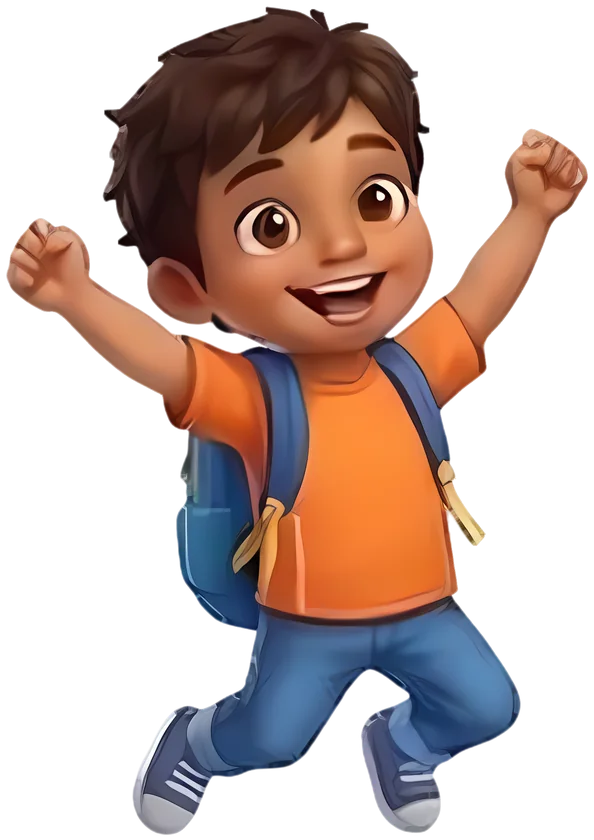
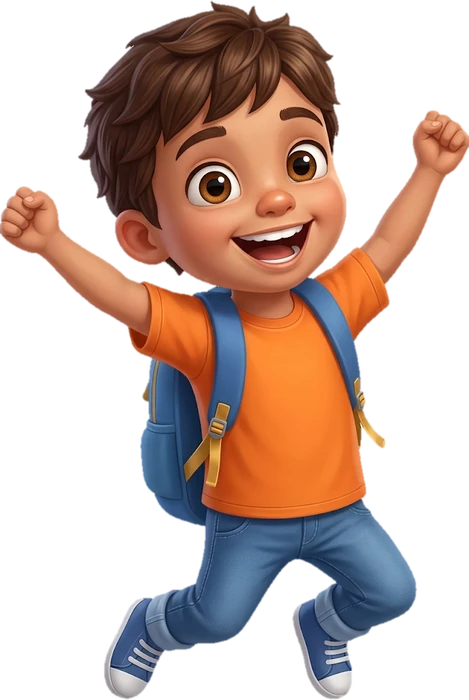
Use new MyPal artwork everywhere

diff --git a/src/games/sketch/SketchGame.tsx b/src/games/sketch/SketchGame.tsx
@@ -1,3 +1,4 @@
+import { Mascot } from "../../components/Mascot";
 import { useEffect, useRef, useState } from "react";
 import type { SketchGameProps } from "./index";
 import { SketchCanvas } from "./SketchCanvas";
@@ -170,6 +171,7 @@ export function SketchGame({ onComplete, onBack, speak, header }: SketchGameProp
       </header> : header}
       {stage === "intro" && <div className="sk-intro">
         <div className="sk-intro-copy">
+          <Mascot pose="point" size={64} />
           <p className="sk-eyebrow">LITTLE ARTISTS · BIG MYSTERIES</p>
           <span className="sk-case-tag">CASE {String(cases.findIndex((entry) => entry.id === caseFile.id) + 1).padStart(2, "0")} <span aria-hidden="true">/</span> ART DIVISION</span>
           <h1 className="sk-title" ref={headingRef} tabIndex={-1}><span className="sk-title-prefix">Case file:</span> {caseFile.title}</h1>
@@ -204,6 +206,7 @@ export function SketchGame({ onComplete, onBack, speak, header }: SketchGameProp
         <div className="sk-workspace">
           <aside className="sk-clue-panel" aria-label="Witness clues">
             <div className="sk-clue-card">
+              <Mascot pose="point" size={64} />
               <div className="sk-clue-heading"><span className="sk-eyebrow">WITNESS SAYS…</span><span className="sk-clue-count">{clueIndex + 1} / {caseFile.clues.length}</span></div>
               <div className="sk-progress" aria-label={`Clue ${clueIndex + 1} of ${caseFile.clues.length}`}>{caseFile.clues.map((entry, i) => <span key={entry.id} className={`sk-progress-dot${i <= clueIndex ? " sk-progress-read" : ""}`} />)}</div>
               <p className="sk-clue-text" aria-live="polite" aria-atomic="true">“{clue.text}”</p>
@@ -231,6 +234,7 @@ export function SketchGame({ onComplete, onBack, speak, header }: SketchGameProp
         <div className="sk-compare-track"><span /></div>
       </div>}
       {stage === "reveal" && snapshot && <div className="sk-reveal">
+        <Mascot pose="jump" size={72} />
         <div className="sk-result-heading"><p className="sk-eyebrow">MYSTERY REVEALED</p><h1 className="sk-title sk-result-title" ref={headingRef} tabIndex={-1}>Meet {caseFile.id === "gecko_hero" ? "Gecko Hero" : caseFile.title}!</h1><p className="sk-lead">Two pictures. One brilliant imagination.</p></div>
         <div className="sk-pictures">
           <figure className="sk-picture"><figcaption><span>Your masterpiece</span><span className="sk-picture-tag">THE ARTIST: YOU</span></figcaption><img className="sk-result-image" src={snapshot.previewUrl} alt="Your drawing of the mystery hero" /></figure>

diff --git a/src/screens/VideoCatalog.tsx b/src/screens/VideoCatalog.tsx
@@ -6,7 +6,7 @@ import { PrototypeHeader } from "../components/PrototypeHeader";
 import { ActivityNavigation } from "../components/ActivityHeader";
 import { SessionActivity } from "../components/SessionControls";
 import { videosFor } from "../game/videos";
-import { Mascot, MascotHead } from "../components/Mascot";
+import { Mascot } from "../components/Mascot";
 import { ToddlerCinema } from "./ToddlerCinema";
 import { YouTubeVideo } from "../components/YouTubeVideo";
 
@@ -71,7 +71,7 @@ function StandardVideoCatalog({ ageBand, name, onParents, onHome, onOpen, onPlay
     </button>
     <button type="button" disabled={finishing} onClick={() => onPlay(selected?.id)}
       className="px-6 py-3 rounded-2xl btn-game btn-mint text-[#062C1E] font-display font-bold text-base sm:text-lg flex items-center gap-2 cursor-pointer">
-      <MascotHead size={26} className="bg-[#FFD13B]" /> Play with {APP_NAME} Now!
+      <Mascot pose="point" size={48} /> Play with {APP_NAME} Now!
     </button>
   </div>;
 
@@ -109,11 +109,11 @@ function StandardVideoCatalog({ ageBand, name, onParents, onHome, onOpen, onPlay
                 setWatching(true);
                 onOpen(selected.id);
               }}>
-              <Mascot pose="tablet" className="video-mascot" eager />
+              <Mascot pose="tablet" className="video-mascot" />
               <span className="block font-display text-2xl sm:text-3xl font-bold text-white">{selected.title}</span>
               <span className="block text-xs sm:text-sm font-bold text-indigo-200">▶ Watch video · Plays on YouTube</span>
             </button> : <>
-              <Mascot pose="tablet" className="video-mascot" eager />
+              <Mascot pose="tablet" className="video-mascot" />
               <h1 className="font-display text-2xl sm:text-3xl font-bold text-white">More videos coming soon</h1>
               <p className="text-xs sm:text-sm font-bold text-indigo-200">Play with {APP_NAME} while we get the next episode ready.</p>
             </>}

diff --git a/src/components/Mascot.tsx b/src/components/Mascot.tsx
@@ -12,7 +12,7 @@ export type MascotAction = "clap" | "jump" | "wave" | "sneak" | "drink" | "none"
 
 // Intrinsic sizes of public/mascot/mypal-*.webp, so the layout never jumps while loading.
 const art: Record<MascotPose, [number, number]> = {
-  wave: [502, 840], jump: [594, 840], tablet: [401, 840], point: [473, 840],
+  wave: [408, 700], jump: [469, 700], tablet: [323, 700], point: [390, 700],
 };
 
 export function poseFor(mood: MascotMood, action: MascotAction = "none"): MascotPose {
@@ -27,14 +27,9 @@ export function Mascot({ pose, size, eager = false, speaking = false, className 
   pose: MascotPose; size?: number; eager?: boolean; speaking?: boolean; className?: string;
 }) {
   const [width, height] = art[pose];
-  return <img className={`mypal-mascot ${className}`.trim()} src={`/mascot/mypal-${pose}.webp`} alt=""
+  return <img className={`mypal-mascot ${className}`.trim()} src={`/mascot/mypal-${pose}.webp`} alt="MyPal"
+    srcSet={`/mascot/mypal-${pose}.webp 1x, /mascot/mypal-${pose}@2x.webp 2x`}
     width={width} height={height} loading={eager ? "eager" : "lazy"} decoding="async" draggable={false}
     data-pose={pose} data-speaking={speaking || undefined} data-sized={size ? true : undefined}
-    style={size ? { height: size, width: Math.round(size * width / height) } : undefined} />;
-}
-
-/** The head from the wave pose: header logo and small icons. */
-export function MascotHead({ size = 36, className = "" }: { size?: number; className?: string }) {
-  return <img className={`mypal-head ${className}`.trim()} src="/mascot/mypal-head.webp" alt=""
-    width={size} height={size} decoding="async" draggable={false} />;
+    style={size ? { height: Math.min(size, 280), width: Math.round(Math.min(size, 280) * width / height) } : undefined} />;
 }

diff --git a/src/screens/Ask.tsx b/src/screens/Ask.tsx
@@ -117,7 +117,7 @@ export function Ask({ topics = [], onBack, onAnswer, onQuiz }: {
         <section className="panel learn-card">
           {asked && <p className="field-label ask-question">You asked: “{asked}”</p>}
           <div className="ask-host">
-            <Mascot pose="tablet" className="ask-mascot" eager />
+            <Mascot pose="point" size={72} className="ask-mascot" />
             <SpeechBubble className="ask-answer" live>{result.answer}</SpeechBubble>
           </div>
           {result.source !== "refusal" && <span className="field-label">+5 XP</span>}
@@ -138,7 +138,7 @@ export function Ask({ topics = [], onBack, onAnswer, onQuiz }: {
           event.preventDefault();
           void submit(question);
         }}>
-          <Mascot pose={busy || voice.status === "decoding" ? "tablet" : "point"} className="ask-mascot-large" eager />
+          <Mascot pose={busy || voice.status === "decoding" ? "tablet" : "point"} className="ask-mascot-large" />
           <HoldButton talk hintKey="ask-talk" className="game-button talk-button" data-button-tone="sky"
             data-recording={voice.status === "recording" || undefined} disabled={busy || voice.status === "decoding" || (finishing && !recording)}
             onBegin={beginVoice} onRelease={() => voice.release()} onCancel={voice.cancelHold}>

diff --git a/src/games/space/SpaceGame.tsx b/src/games/space/SpaceGame.tsx
@@ -1,5 +1,6 @@
+import { Mascot } from "../../components/Mascot";
 import { useEffect, useRef, useState, type ReactNode } from "react";
-import { ObjectArt, RocketArt } from "./art/ObjectArt";
+import { ObjectArt } from "./art/ObjectArt";
 import { Journey } from "./Journey";
 import { Quiz } from "./Quiz";
 import { objects } from "./scale";
@@ -52,7 +53,7 @@ function SpaceActivity({ onBack, onComplete, speak, header, exploreOnly }: Space
         </div>
         <div className="sp-hero" aria-hidden="true">
           <div className="sp-hero-earth"><ObjectArt art="earth" /></div>
-          <div className="sp-hero-rocket"><RocketArt /></div>
+          <div className="sp-hero-rocket"><Mascot pose="point" /></div>
           <div className="sp-hero-moon"><ObjectArt art="moon" /></div>
         </div>
       </div>}
@@ -65,6 +66,7 @@ function SpaceActivity({ onBack, onComplete, speak, header, exploreOnly }: Space
       }} />}
       {stage === "result" && <div className="sp-result">
         <div className="sp-result-art" aria-hidden="true">
+          <Mascot pose="jump" size={120} />
           {["earth", "jupiter", "star"].map((art) => <div key={art}><ObjectArt art={art} /></div>)}
         </div>
         <h2 tabIndex={-1} ref={resultTitle}>What a journey!</h2>

diff --git a/src/screens/Home.tsx b/src/screens/Home.tsx
@@ -56,11 +56,11 @@ export function Hub({ profile, preferences, onToggleSound, onParent, onPrivacy, 
     </PrototypeHeader>
     <div className="learn-page">
       <section className="hub-greeting" aria-label={`${APP_NAME} says hello`}>
-        <Mascot pose="wave" size={96} eager />
+        <Mascot pose="wave" size={72} />
         <p className="hub-greeting-bubble">Hi, {name}! What shall we do today?</p>
       </section>
       <section className="flow-start panel" aria-labelledby="flow-start-title">
-        <div className="flow-start-icon flow-start-mascot" aria-hidden="true"><Mascot pose="tablet" size={92} eager /></div>
+        <div className="flow-start-icon flow-start-mascot" aria-hidden="true"><Mascot pose="tablet" size={72} /></div>
         <div><p className="field-label" id="flow-start-title">Start here</p><h1 className="font-display text-2xl sm:text-3xl font-bold">{first.title}</h1><p>{first.description}</p></div>
         <button type="button" className="btn-game btn-mint rounded-2xl min-h-12 px-5 py-3 font-display font-bold text-[#062C1E]" onClick={() => open(first)}>
           Start <span aria-hidden="true">→</span><span className="sr-only"> {first.title}</span>

diff --git a/src/components/PrototypeHeader.tsx b/src/components/PrototypeHeader.tsx
@@ -1,6 +1,6 @@
 import { useContext, type ReactNode } from "react";
 import { GrownUpsButton } from "./GrownUpsButton";
-import { MascotHead } from "./Mascot";
+import { Mascot } from "./Mascot";
 import { SessionActivity, SessionClock } from "./SessionControls";
 
 export function PrototypeHeader({ name, label, detail, children, onParents, onHome }: {
@@ -9,7 +9,7 @@ export function PrototypeHeader({ name, label, detail, children, onParents, onHo
   const session = useContext(SessionActivity);
   return <header className="flex flex-wrap items-center justify-between gap-2 bg-[#1C145C]/90 px-4 py-2.5 rounded-2xl border-2 border-[#4C35DE]">
     <div className="flex items-center gap-2.5 min-w-0">
-      <div aria-hidden="true" className="w-9 h-9 shrink-0 rounded-full bg-[#FFD13B] overflow-hidden border-2 border-white"><MascotHead size={32} /></div>
+      <div aria-hidden="true" className="shrink-0"><Mascot pose="wave" size={48} /></div>
       <div className="min-w-0">
         <div className="flex flex-wrap items-center gap-x-2">
           <span className="font-display font-bold text-base text-white wrap-anywhere">{name}</span>

diff --git a/src/index.css b/src/index.css
@@ -190,9 +190,8 @@ select, .gate-answer input, .learn-card textarea { width: 100%; min-height: 48px
 .welcome-hero p { max-width: 29ch; margin-top: .6rem; color: var(--ink-soft); font-size: clamp(1rem, 2.3vw, 1.45rem); line-height: 1.28; }
 /* MyPal (src/components/Mascot.tsx). Without a size the picture keeps the square
    footprint every mascot box was designed for, centred and never cropped. */
-.mypal-mascot { display: block; width: 100%; height: auto; aspect-ratio: 1; object-fit: contain; object-position: center bottom; transform-origin: 50% 100%; user-select: none; pointer-events: none; }
+.mypal-mascot { display: block; width: 100%; height: auto; max-height: 280px; aspect-ratio: 1; object-fit: contain; object-position: center bottom; transform-origin: 50% 100%; user-select: none; pointer-events: none; }
 .mypal-mascot[data-sized] { aspect-ratio: auto; max-width: 100%; object-fit: contain; }
-.mypal-head { display: block; border-radius: 50%; object-fit: cover; }
 @media (prefers-reduced-motion: no-preference) {
   .mypal-mascot { animation: mypal-sway 3s ease-in-out infinite; }
 }

diff --git a/src/screens/Welcome.tsx b/src/screens/Welcome.tsx
@@ -27,7 +27,7 @@ export function Welcome({ repeat, onContinue, onToggleSound }: {
   }, [stage, repeat, onContinue]);
 
   if (stage < 3 || repeat) return <main id="screen-splash" className="prototype-screen fixed inset-0 z-50 bg-white flex flex-col items-center justify-center p-6 text-center transition-opacity duration-500" aria-label={`Loading ${APP_NAME}`}>
-    <div className="splash-mascot mb-6 drop-shadow-lg"><Mascot pose={stage >= 2 ? "jump" : "wave"} size={200} eager /></div>
+    <div className="splash-mascot mb-6 drop-shadow-lg"><Mascot pose="wave" size={200} eager /></div>
     <h1 className="splash-title font-display text-3xl sm:text-4xl font-bold text-[#6C47FF] tracking-tight mb-2">Welcome to {APP_NAME}</h1>
     <p className="text-slate-400 font-extrabold text-sm tracking-widest uppercase mb-6" role="status">{status[Math.min(stage, 2)]}</p>
     <div className="w-64 h-4 bg-slate-200 rounded-full overflow-hidden p-0.5" role="progressbar" aria-label="Loading progress" aria-valuenow={progress[Math.min(stage, 2)]}>

diff --git a/src/screens/MissionSummary.tsx b/src/screens/MissionSummary.tsx
@@ -28,7 +28,7 @@ export function MissionSummary({ profile, points, onReplay, onHome, children }: 
     {navigation && <nav className="sr-only" aria-label="Breadcrumb">{navigation.breadcrumb}</nav>}
     <section id="screen-complete" className="prototype-screen py-4 flex flex-col items-center justify-center text-center" aria-label="Mission complete">
       <div className="bg-[#1C145C] rounded-3xl p-6 sm:p-8 border-4 border-[#FFD13B] shadow-[0_16px_48px_rgba(0,0,0,0.5)] w-full space-y-5">
-        <Mascot pose="jump" size={150} eager className="mx-auto -mb-2" />
+        <Mascot pose="jump" size={150} className="mx-auto -mb-2" />
         <div className="inline-flex items-center gap-2 px-4 py-1.5 rounded-full bg-[#2CE69B] text-[#062C1E] font-black text-sm">🎉 YOU DID IT!</div>
         <h1 className="font-display text-3xl sm:text-4xl font-bold text-white wrap-anywhere">Way to go, Agent {name}!</h1>
 

diff --git a/index.html b/index.html
@@ -6,9 +6,12 @@
     <title>MyPal</title>
     <meta name="description" content="MyPal: playful adventures, learning games and friendly voice guidance with MyPal for children and their grown-ups." />
     <meta property="og:title" content="MyPal" />
+    <meta property="og:image" content="https://mypal.tarlan-b06.workers.dev/icon-512.png" />
+    <meta property="og:image:alt" content="MyPal" />
     <meta name="theme-color" content="#0f0a3c" />
-    <link rel="icon" type="image/png" href="/favicon.png" />
-    <link rel="apple-touch-icon" href="/apple-touch-icon.png" />
+    <link rel="icon" type="image/png" sizes="32x32" href="/favicon.png" />
+    <link rel="apple-touch-icon" sizes="180x180" href="/apple-touch-icon.png" />
+    <link rel="manifest" href="/manifest.webmanifest" />
   </head>
   <body>
     <div id="root"></div>

diff --git a/src/games/space/Quiz.tsx b/src/games/space/Quiz.tsx
@@ -1,5 +1,6 @@
+import { Mascot } from "../../components/Mascot";
 import { useEffect, useId, useRef, useState } from "react";
-import { ObjectArt, RocketArt } from "./art/ObjectArt";
+import { ObjectArt } from "./art/ObjectArt";
 import { compareSizes, objects, type SpaceObject } from "./scale";
 
 type Pair = [SpaceObject, SpaceObject];
@@ -46,7 +47,7 @@ export function Quiz({ onFinish }: { onFinish: (correct: number) => void }) {
           <p className="sp-kicker">Question {index + 1} of {questions.length}</p>
           <h2 id={headingId} ref={heading} tabIndex={-1}>Which is bigger?</h2>
         </div>
-        <div className="sp-quiz-rocket"><RocketArt /></div>
+        <div className="sp-quiz-rocket"><Mascot pose="point" size={64} /></div>
       </div>
       <div className="sp-choices">
         {pair.map((object) => (
